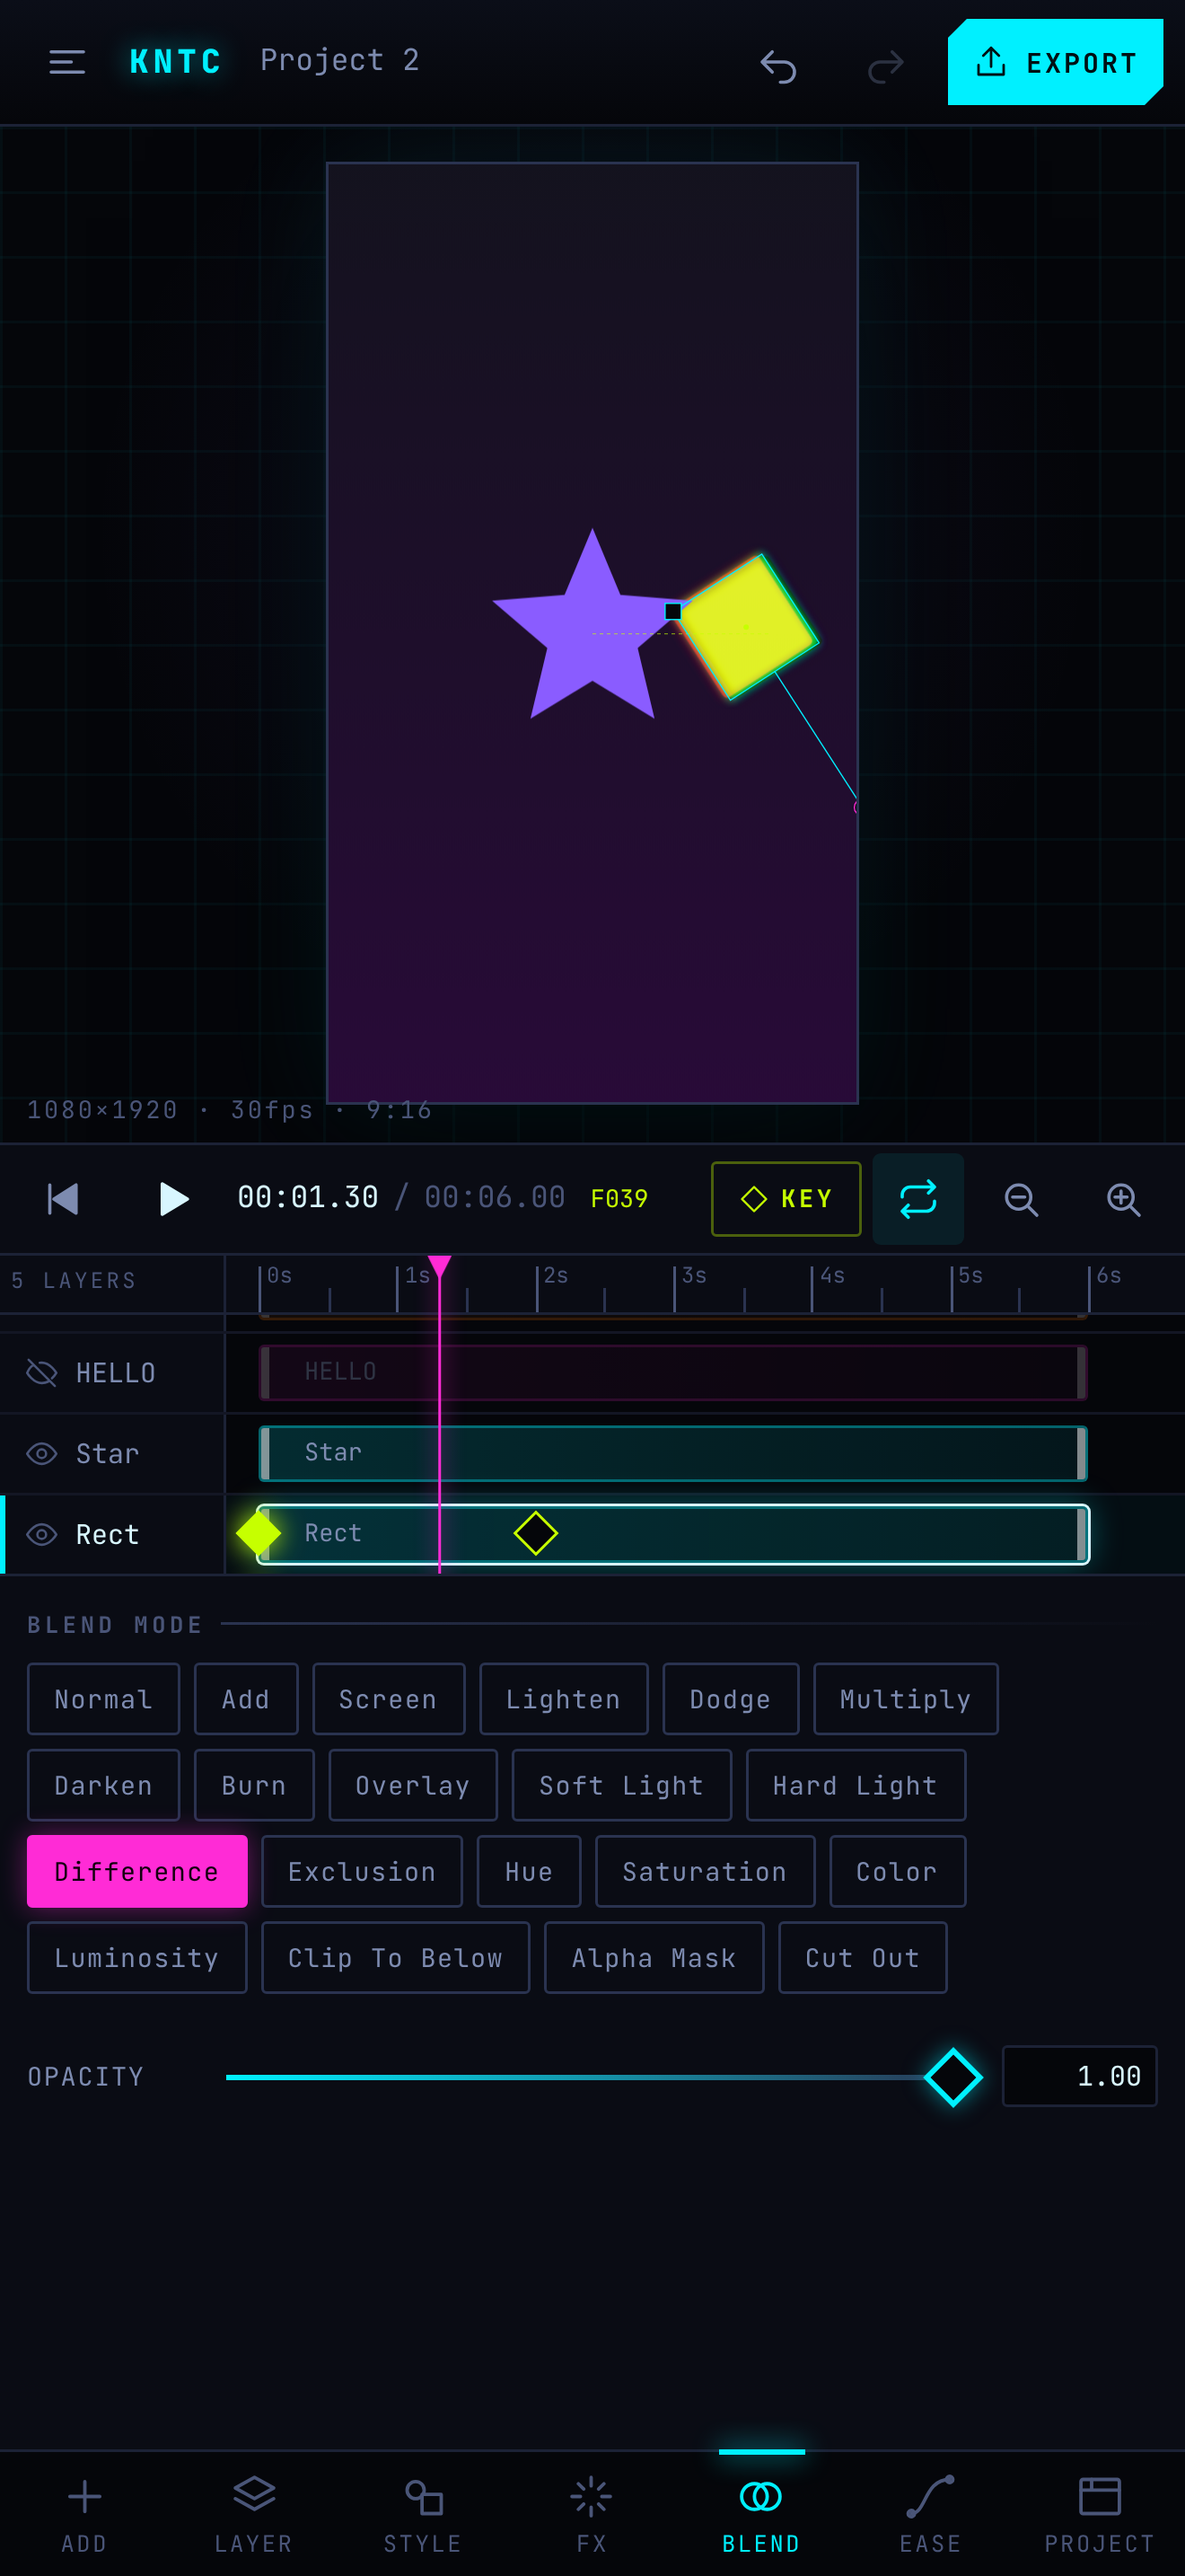
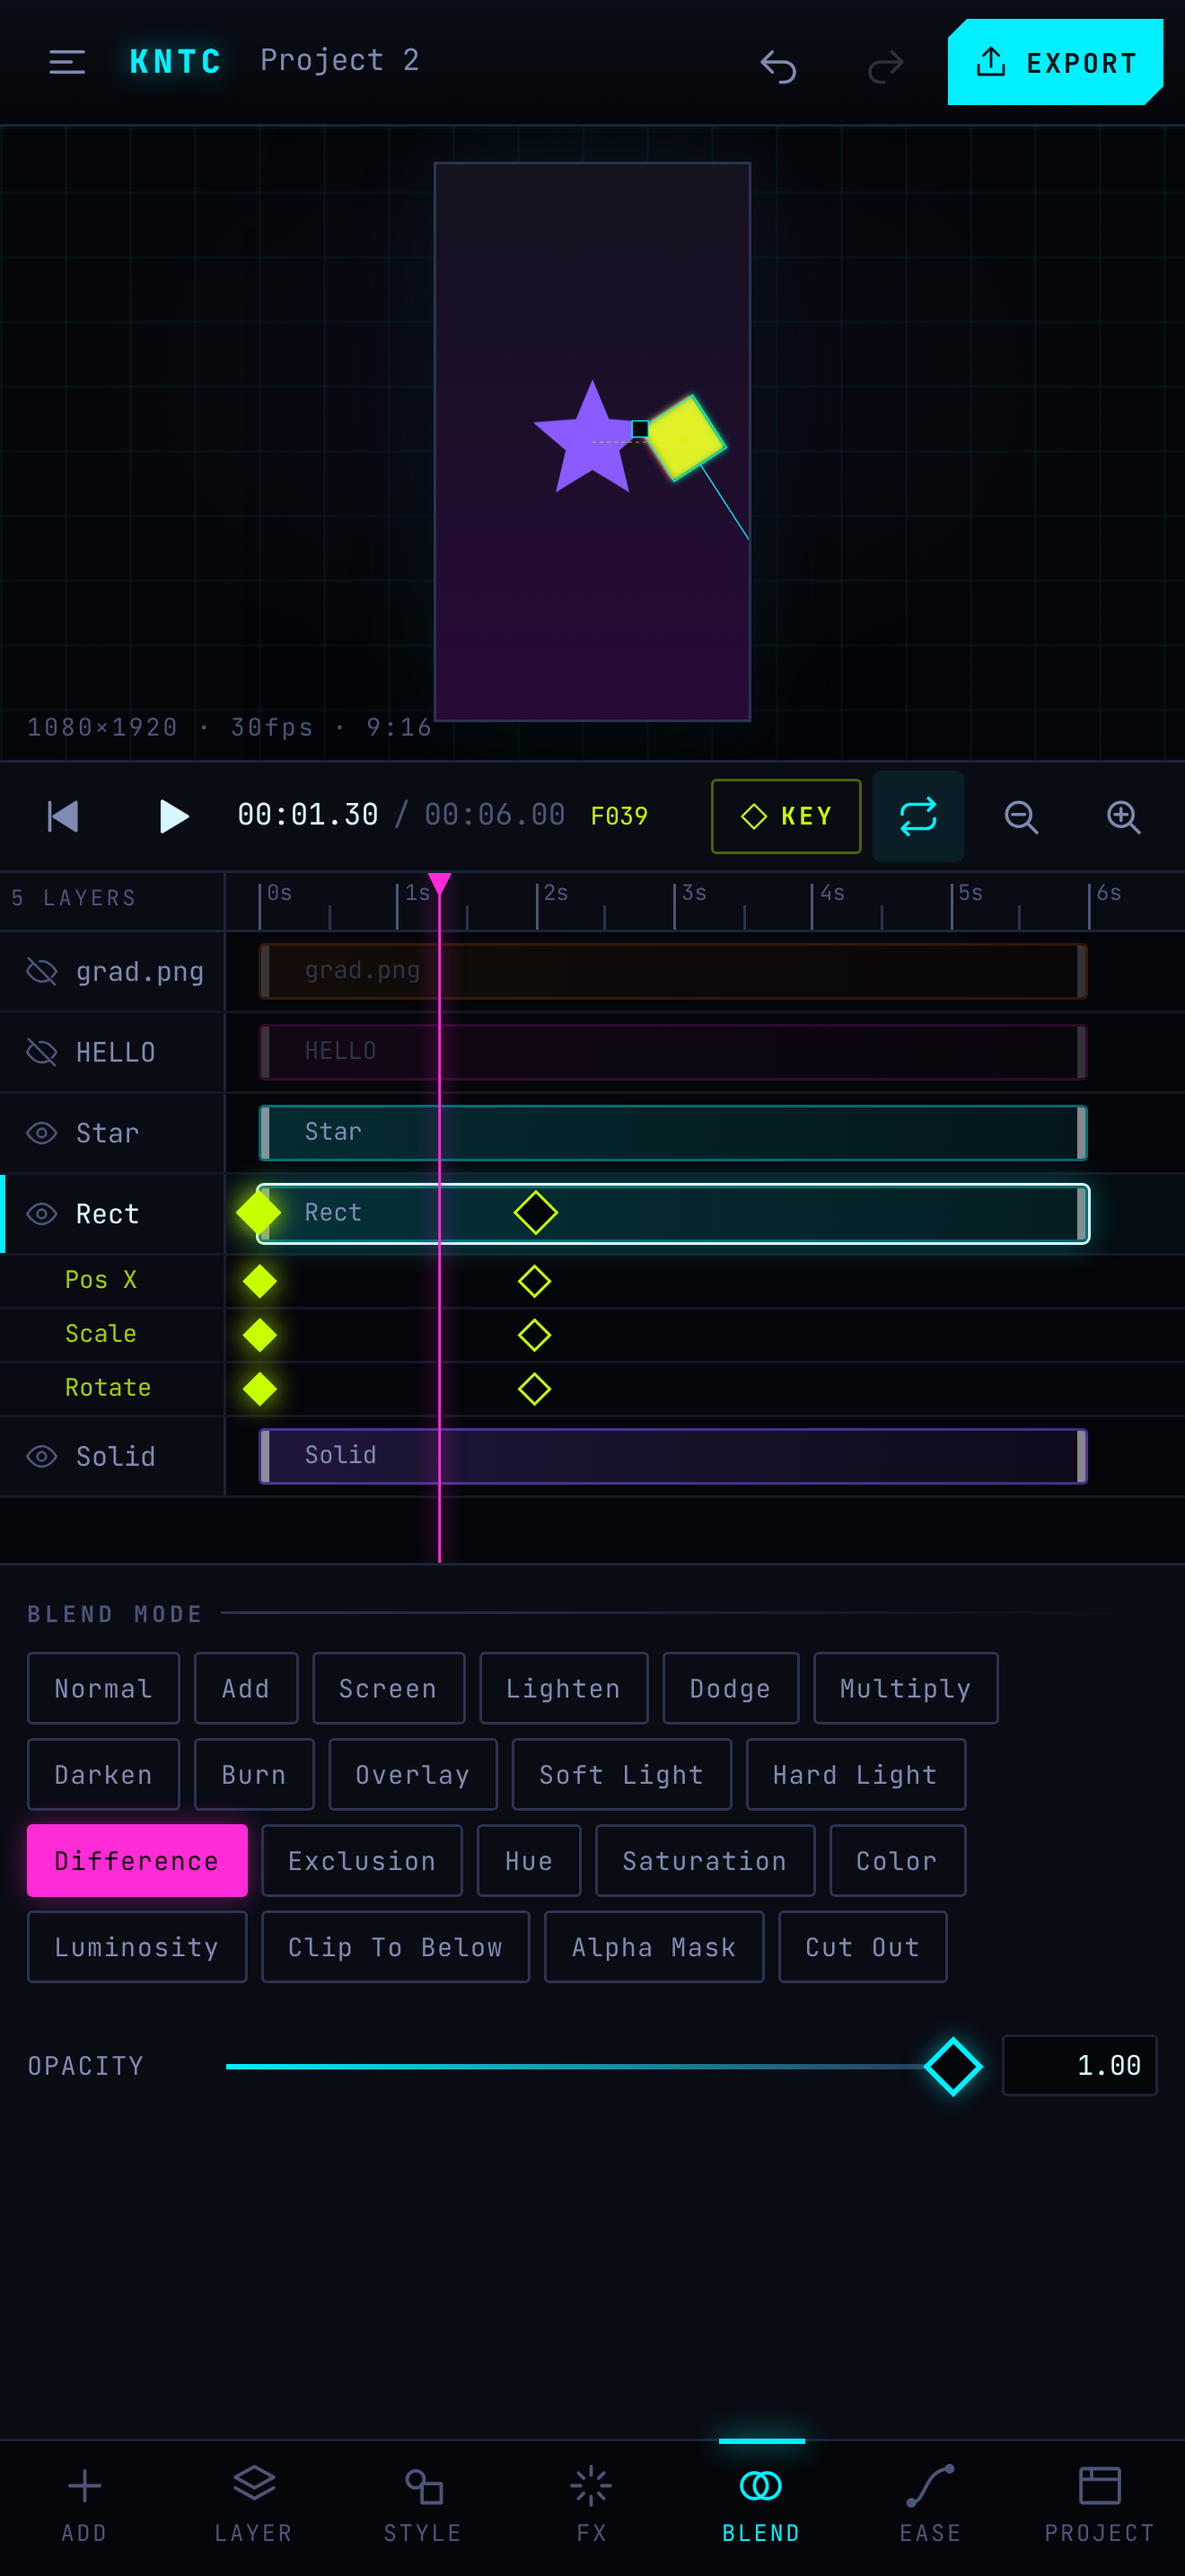
iOS standalone: fill full screen height, pin tab bar to bottom, give extra height to timeline
- status-bar-style black-translucent -> default: on iOS 26 standalone black-translucent sizes the
  layout viewport as screen minus status bar anchored at the top, leaving a dead ~62px band at the bottom
- #app height 100dvh; tab bar bottom padding trimmed to just clear the home indicator
- --tl-extra: height beyond ~818px usable goes to the timeline row (stage/panel unchanged)
- SW cache kntc-v2
- e2e: tab bar within 40px of viewport bottom at 440x956, timeline grows, desktop fills viewport

diff --git a/css/app.css b/css/app.css
@@ -6,6 +6,11 @@
   --sans: -apple-system, system-ui, "Helvetica Neue", Arial, sans-serif;
   --safe-b: env(safe-area-inset-bottom, 0px); --safe-t: env(safe-area-inset-top, 0px);
   --tlh: 150px; --cut: 7px;
+  /* tall phones (e.g. iPhone Pro Max standalone): every px of height beyond ~818px of usable space goes to the timeline,
+     so the stage/panel keep their size and more tracks become visible. 0 on shorter screens and in browser tabs. */
+  --tl-extra: clamp(0px, calc(100dvh - var(--safe-t) - 818px), 260px);
+  /* bottom padding for the tab bar: just enough to clear the home indicator, not the full 34px inset */
+  --tabs-pb: max(4px, calc(var(--safe-b) - 14px));
   color-scheme: dark;
 }
 * { box-sizing: border-box; -webkit-tap-highlight-color: transparent; }
@@ -17,8 +22,8 @@ button:disabled { opacity: .3; pointer-events: none; }
 .ico { display: inline-flex; width: 18px; height: 18px; }
 .ico svg { width: 100%; height: 100%; }
 
-#app { position: fixed; inset: 0; display: grid; padding-top: var(--safe-t); grid-template-columns: minmax(0, 1fr);
-  grid-template-rows: auto minmax(120px, 1fr) auto var(--tlh) auto auto;
+#app { position: fixed; inset: 0; height: 100%; height: 100dvh; display: grid; padding-top: var(--safe-t); grid-template-columns: minmax(0, 1fr);
+  grid-template-rows: auto minmax(120px, 1fr) auto calc(var(--tlh) + var(--tl-extra)) auto auto;
   grid-template-areas: "top" "stage" "transport" "timeline" "panel" "tabs"; }
 body.panel-open { --tlh: 118px; }
 
@@ -164,7 +169,7 @@ select { flex: 1; background: var(--bg); border: 1px solid var(--line); border-r
 .bez { background: var(--bg); border: 1px solid var(--line); touch-action: none; }
 
 /* tabs */
-#tabs { grid-area: tabs; display: flex; justify-content: space-around; border-top: 1px solid var(--line); background: var(--bg); padding-bottom: var(--safe-b); }
+#tabs { grid-area: tabs; display: flex; justify-content: space-around; border-top: 1px solid var(--line); background: var(--bg); padding-bottom: var(--tabs-pb); }
 .tab { flex: 1; display: flex; flex-direction: column; align-items: center; gap: 2px; padding: 7px 0 6px; font: 8.5px var(--mono); letter-spacing: .1em; text-transform: uppercase; color: var(--tx3); position: relative; }
 .tab .ico { width: 19px; height: 19px; }
 .tab.on { color: var(--cy); }
@@ -182,7 +187,7 @@ dialog::backdrop { background: rgba(2,3,8,.72); backdrop-filter: blur(4px); -web
 .pmain b { font: 600 11px var(--sans); } .pmain em { font: 9px var(--mono); font-style: normal; color: var(--tx3); }
 .prog { height: 3px; background: var(--line); overflow: hidden; } .prog i { display: block; height: 100%; width: 0; background: linear-gradient(90deg, var(--cy), var(--mg)); box-shadow: 0 0 10px var(--cy); }
 .preview { width: 100%; max-height: 40dvh; background: #000; margin-top: 6px; }
-.toast { position: fixed; left: 50%; bottom: calc(90px + var(--safe-b)); transform: translate(-50%, 10px); opacity: 0; transition: .25s; z-index: 50; padding: 8px 14px; font: 10px var(--mono);
+.toast { position: fixed; left: 50%; bottom: calc(76px + var(--tabs-pb)); transform: translate(-50%, 10px); opacity: 0; transition: .25s; z-index: 50; padding: 8px 14px; font: 10px var(--mono);
   background: var(--bg3); border: 1px solid var(--cy); color: var(--tx); box-shadow: 0 0 20px rgba(0,240,255,.25); pointer-events: none; }
 .toast.show { opacity: 1; transform: translate(-50%, 0); }
 

diff --git a/index.html b/index.html
@@ -6,7 +6,10 @@
 <meta name="theme-color" content="#05060a">
 <meta name="apple-mobile-web-app-capable" content="yes">
 <meta name="mobile-web-app-capable" content="yes">
-<meta name="apple-mobile-web-app-status-bar-style" content="black-translucent">
+<!-- "default" (not black-translucent): on iOS 26 standalone, black-translucent sizes the layout viewport as screen minus
+     the status bar but anchors it at the top, leaving a dead, untappable ~62px band at the bottom. With "default" the
+     web view starts below the status bar (painted with theme-color) and ends exactly at the bottom edge. -->
+<meta name="apple-mobile-web-app-status-bar-style" content="default">
 <meta name="apple-mobile-web-app-title" content="Kinetic">
 <title>KINETIC // motion</title>
 <link rel="manifest" href="manifest.webmanifest">

diff --git a/sw.js b/sw.js
@@ -1,5 +1,5 @@
 // Offline cache for the app shell (network-first for HTML, cache-first for assets).
-const V = 'kntc-v1';
+const V = 'kntc-v2';
 const ASSETS = ['./', 'index.html', 'css/app.css', 'js/main.js', 'js/state.js', 'js/easing.js', 'js/effects.js', 'js/render.js', 'js/storage.js', 'js/export.js', 'js/ui.js',
   'manifest.webmanifest', 'icons/icon.svg', 'icons/icon-192.png', 'icons/icon-512.png', 'icons/apple-touch-icon.png'];
 self.addEventListener('install', e => { e.waitUntil(caches.open(V).then(c => c.addAll(ASSETS)).then(() => self.skipWaiting())); });

diff --git a/tests/e2e.py b/tests/e2e.py
@@ -1,4 +1,4 @@
-"""End-to-end tests: desktop (1440x900) and iPhone emulation (Chromium, iPhone 15 Pro Max descriptor)."""
+"""End-to-end tests: desktop (1440x900) and iPhone emulation (Chromium, iPhone 15 Pro Max descriptor at 440x956 = iPhone 17 Pro Max)."""
 import json, sys, os, struct, zlib, time
 from playwright.sync_api import sync_playwright, expect
 
@@ -35,6 +35,15 @@ def run(pw, label, ctx_opts, mobile):
     # 1. demo renders
     sig0 = pg.evaluate(SIG)
     check(f'[{label}] demo project loads & renders', P('__app.project.layers.length') == 5 and sig0['nz'] > 50, sig0)
+    # full-height layout: tab bar pinned to the bottom, reclaimed height goes to the timeline
+    lay = P("""(() => { const r = id => document.getElementById(id).getBoundingClientRect();
+      return { vh: innerHeight, app: Math.round(r('app').bottom), tabs: Math.round(r('tabs').bottom), tl: Math.round(r('timeline').height), stage: Math.round(r('stageWrap').height) }; })()""")
+    if mobile:
+        check(f'[{label}] tab bar bottom within 40px of viewport bottom', lay['vh'] - lay['tabs'] <= 40 and lay['tabs'] <= lay['vh'], lay)
+        check(f'[{label}] timeline gets extra height on tall screen (>118px) & stage stays sensible (>=180px)', lay['tl'] > 118 and lay['stage'] >= 180, lay)
+        pg.screenshot(path=f'{SHOTS}/{label}-00-fullheight.png')
+    else:
+        check(f'[{label}] app fills viewport height', abs(lay['vh'] - lay['app']) <= 1, lay)
     P('__app.seek(1.6)'); pg.wait_for_timeout(200)
     pg.screenshot(path=f'{SHOTS}/{label}-01-demo.png')
     # playback advances time
